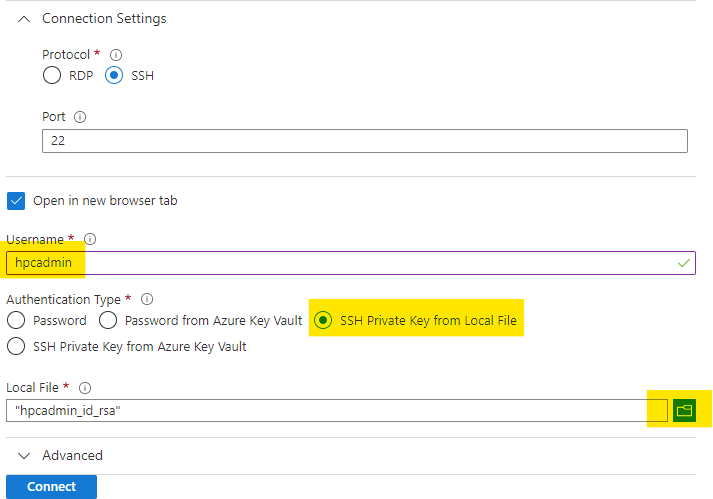
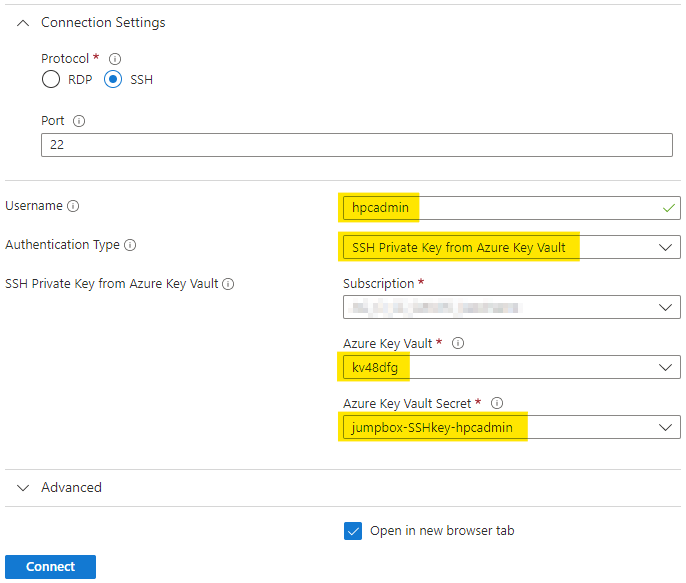
Use Key Vault for jumpbox private SSH key

diff --git a/examples/bastion/readme.md b/examples/bastion/readme.md
@@ -86,7 +86,7 @@ Locate the `bastion-jumpbox` VM on the Azure portal and click on "Connect" menu 
 
 ![Alt text](/examples/bastion/images/jumpbox_connect.png?raw=true "Jumpbox Connect menu button")
 
-In the Bastion pane type `hpcadmin` in the "Username" field and select "SSH Private Key from Local File" to provide the `hpcadmin_id_rsa` private key created by AzureHPC in the directory where `azhpc-build` has been executed.
+In the Bastion pane type `hpcadmin` in the "Username" field and select "SSH Private Key from Azure Key Vault File". In the three new drop down menus select the Key Vault deployed by AzureHPC and finally `jumpbox-SSHkey-hpcadmin` as secret name.
 
 ![Alt text2](/examples/bastion/images/jumpbox_bastion_ssh.png?raw=true "Azure Bastion Linux SSH")
 
